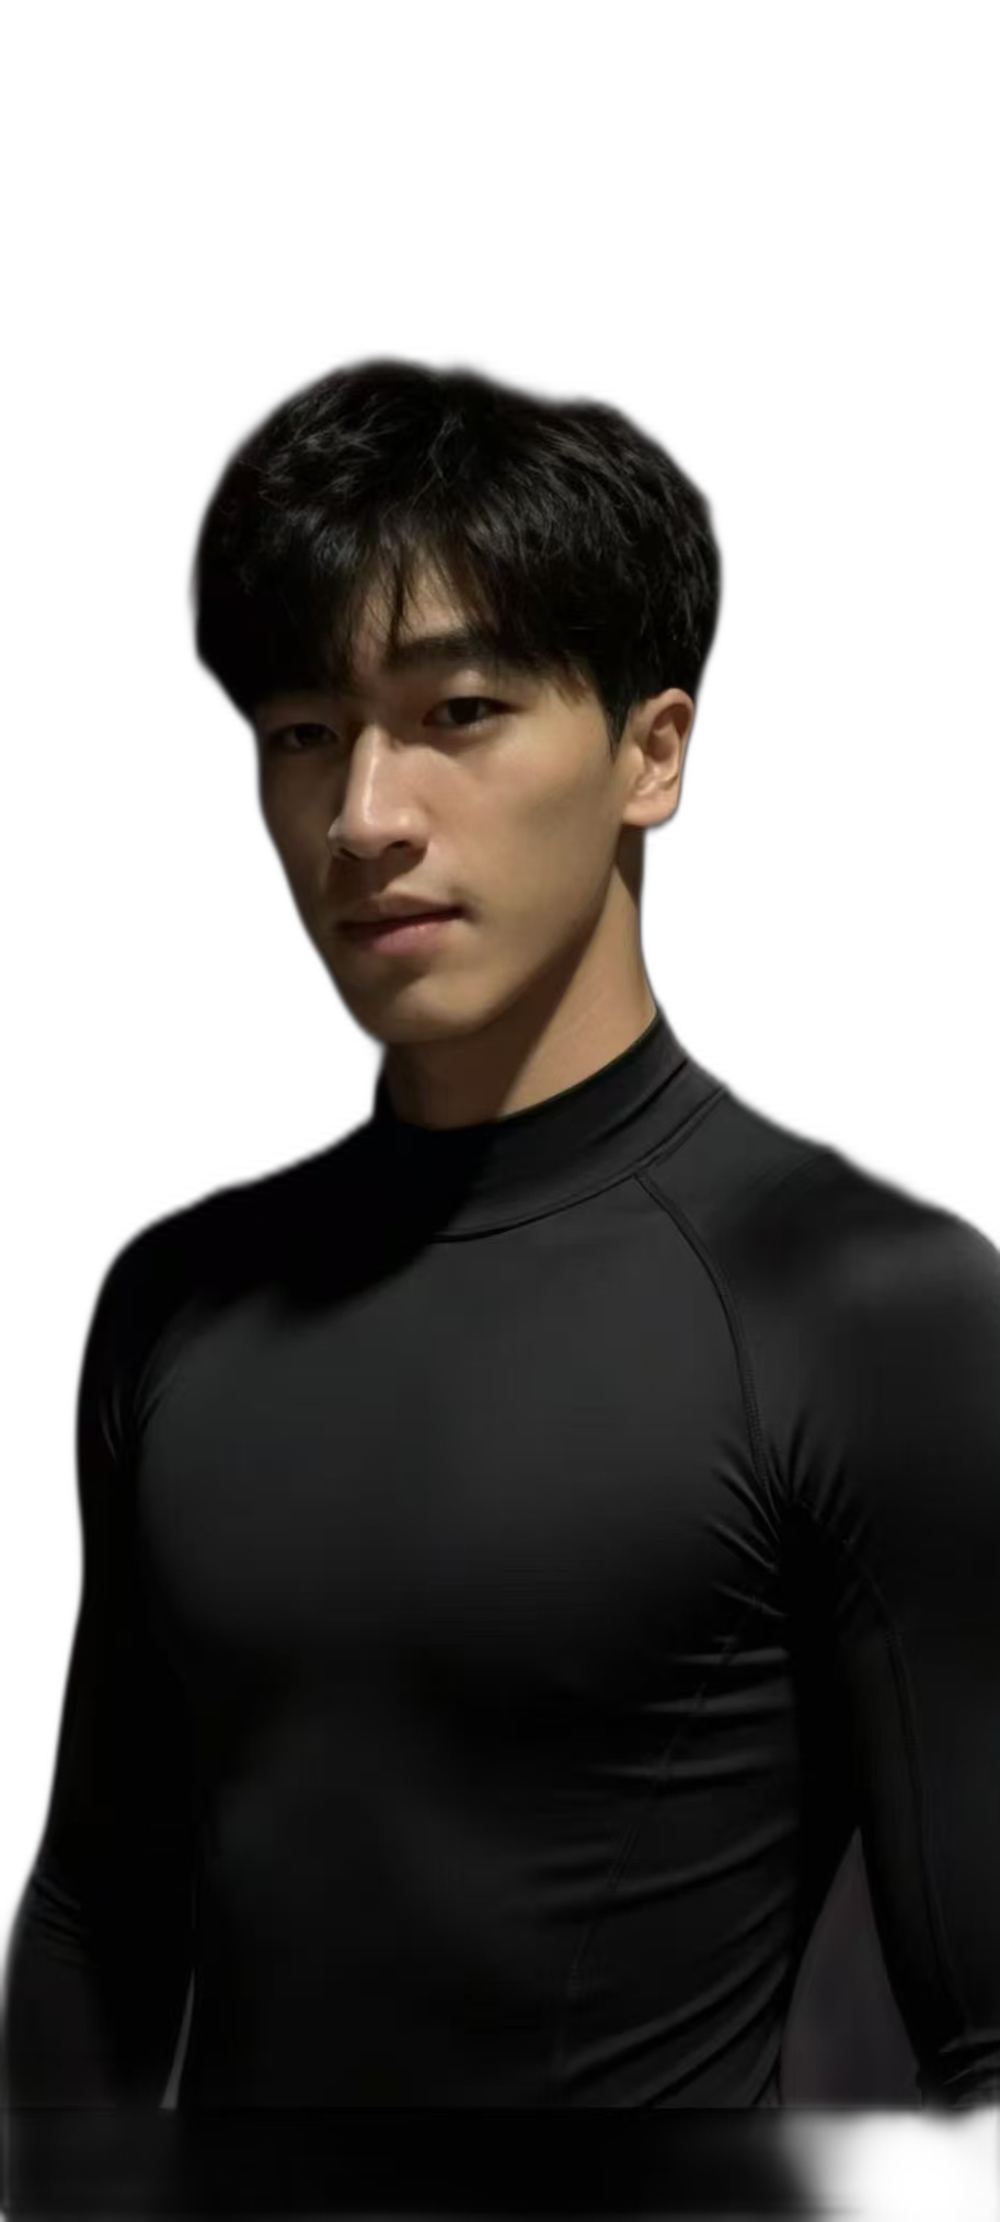
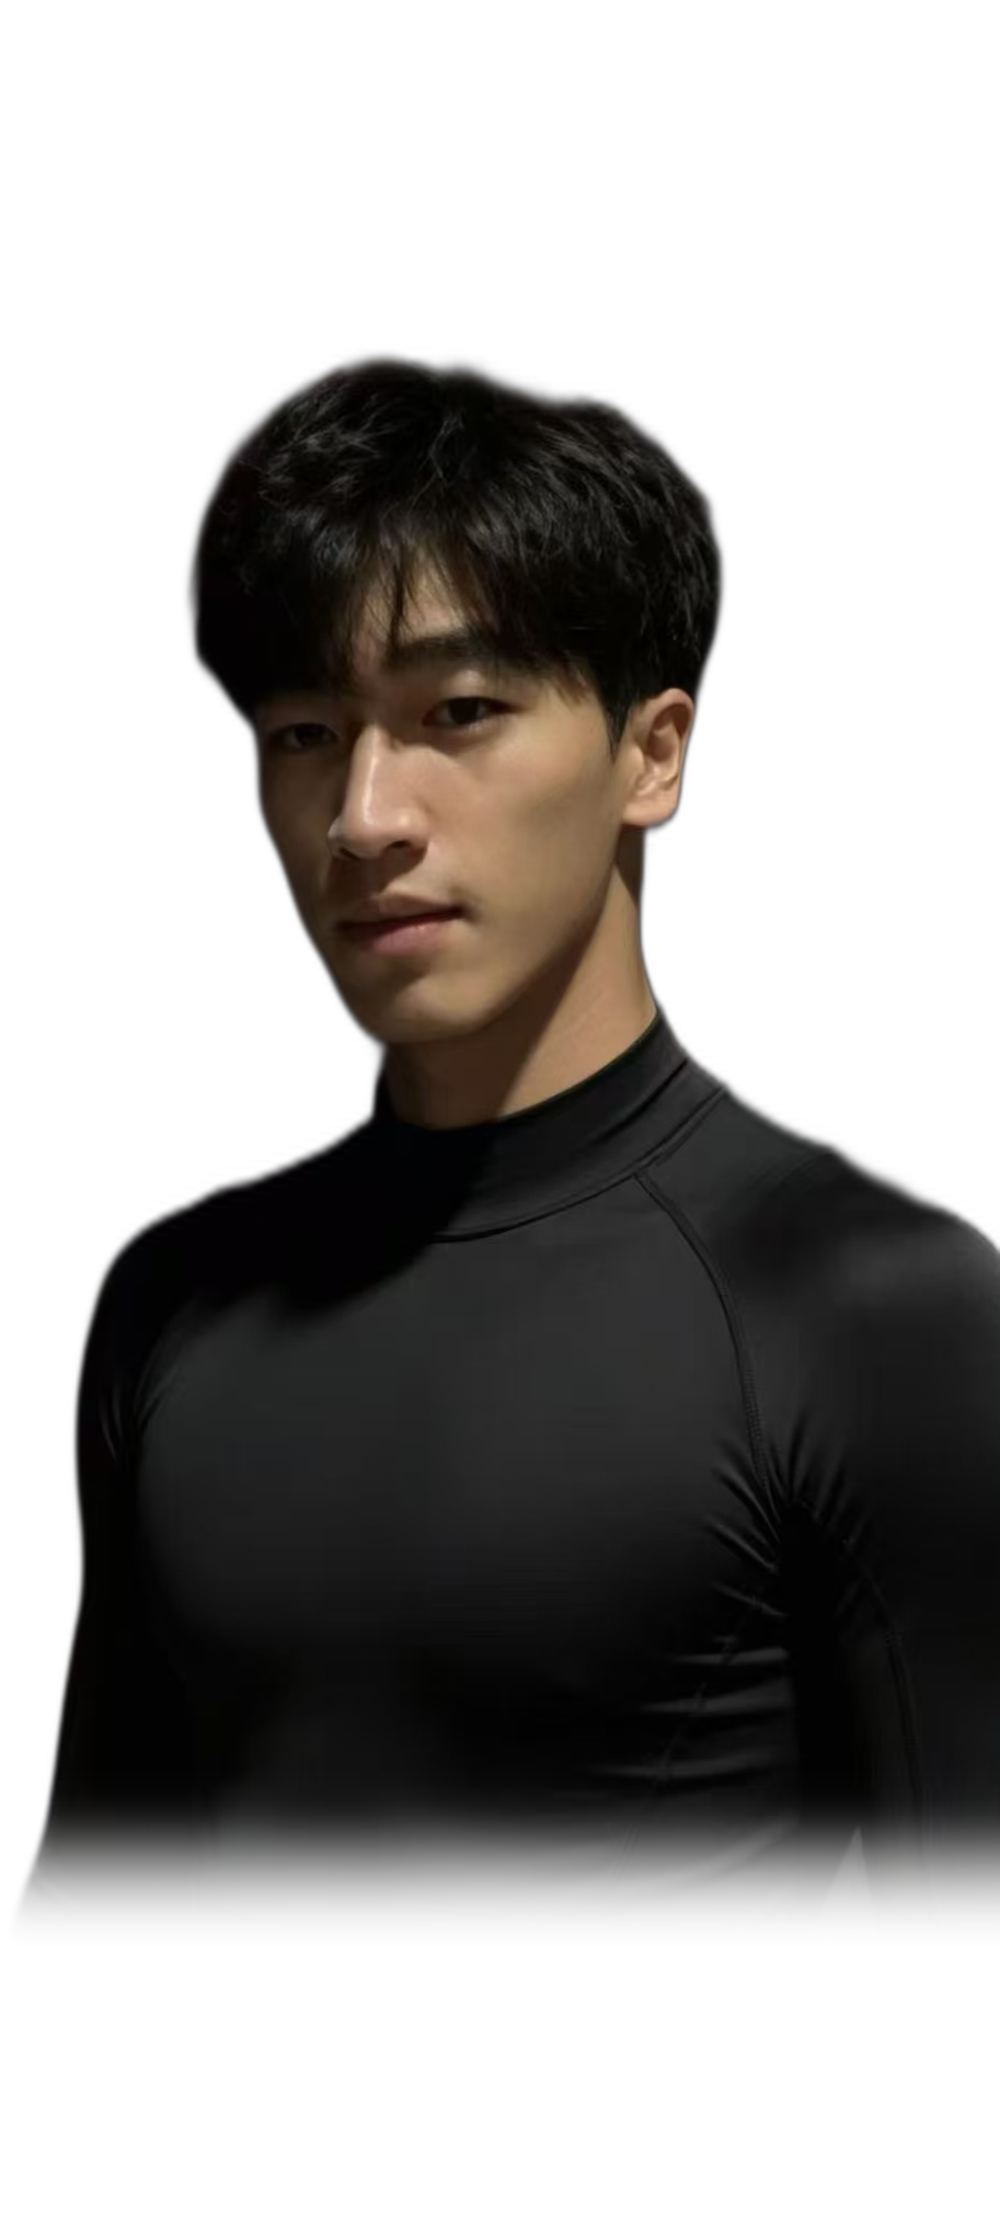
Remove residual black strip below figure: bottom alpha fade + warm glow

Changed region(s): [[0.0, 0.8074, 1.0, 1.0]]

diff --git a/css/style.css b/css/style.css
@@ -334,7 +334,9 @@ button {
   position: absolute;
   inset: -12%;
   z-index: -1;
-  background: radial-gradient(56% 46% at 50% 42%, rgba(255, 77, 43, 0.22), transparent 68%);
+  background:
+    radial-gradient(56% 46% at 50% 42%, rgba(255, 77, 43, 0.22), transparent 68%),
+    radial-gradient(52% 30% at 50% 100%, rgba(255, 120, 60, 0.12), transparent 72%);
   filter: blur(14px);
 }
 
@@ -346,8 +348,6 @@ button {
   cursor: crosshair;
   user-select: none;
   -webkit-user-select: none;
-  /* 人物抠图后无背景：加柔和投影，营造悬浮感 */
-  filter: drop-shadow(0 26px 34px rgba(0, 0, 0, 0.5));
 }
 
 .portrait-bg,
